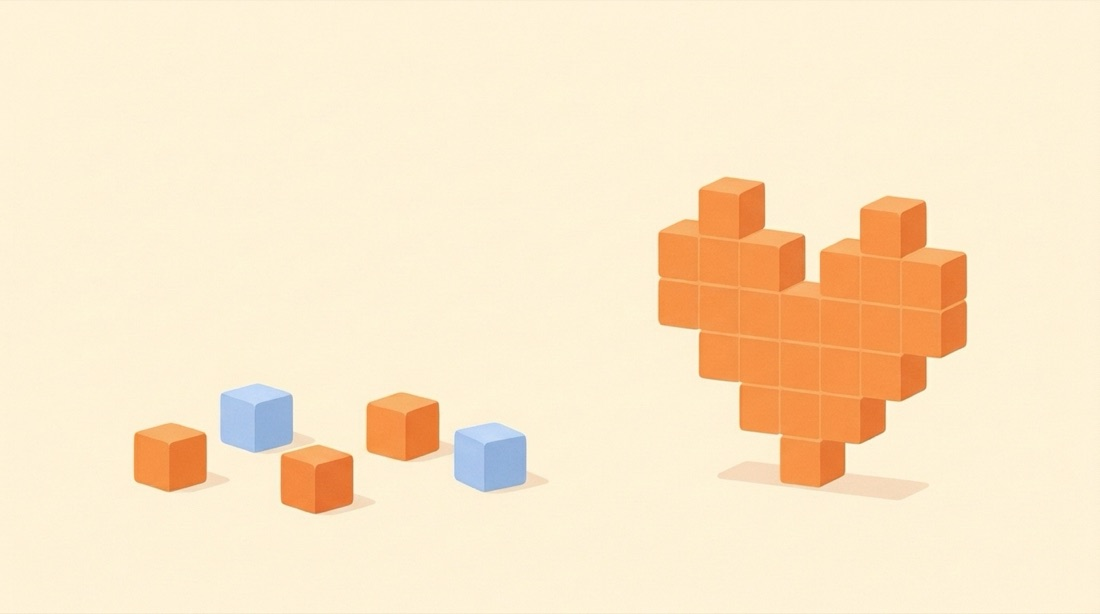
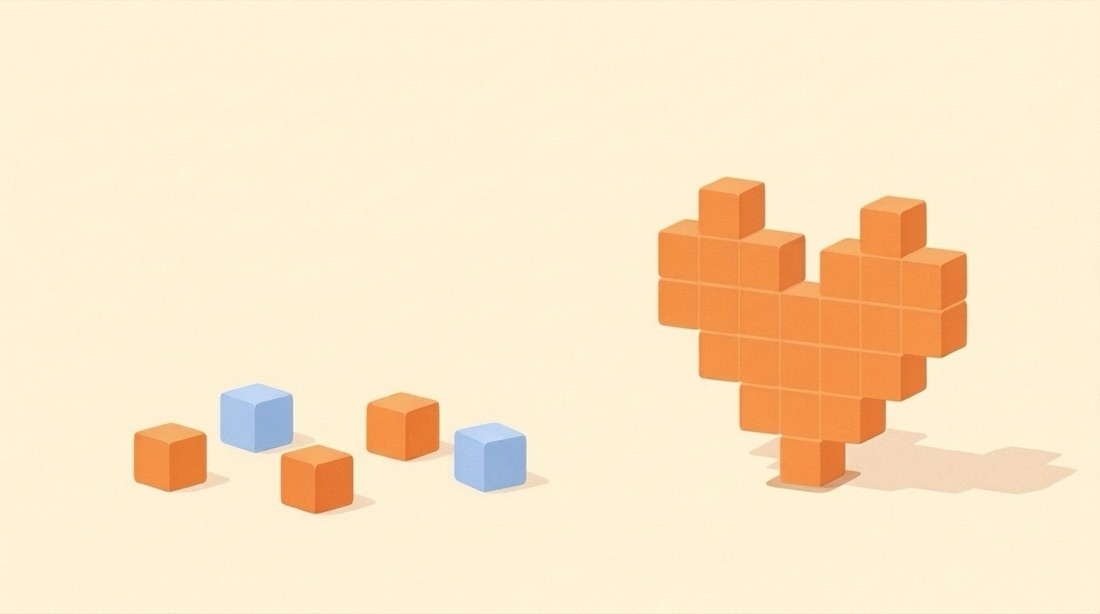
「しくみ」の挿絵の影の向きをそろえる
ハートの影を、ばらばらのブロックの影と同じく接地点から右へ伸びる形にした (Gemini で影だけを編集)。

Changed region(s): [[0.6491, 0.6808, 0.9891, 0.8046]]

diff --git a/docs/dev/sessions/2026-11-13-heart-shadow.md b/docs/dev/sessions/2026-11-13-heart-shadow.md
@@ -1,0 +1,27 @@
+# 「しくみ」の挿絵の影を直す
+
+日付: 2026-11-13
+
+## 目的
+ユーザーが「しくみ（ざっくり）の絵の影の付け方が気になる」と言った。どの絵かを聞き、ハートの挿絵 (Gemini 製) だと答えた。
+
+## やったこと
+- 元絵の問題: ばらばらのブロックの影は右下に伸びているのに、ハートの影だけ真下の横長の楕円で、光の向きが合っていなかった。
+- `ai-collab-workflow/` の挿絵フローの「直す」手順で、Gemini (`gemini-3.8-flash-medium`) に影だけを直させた。依頼文は `ai-collab-workflow/runs/2026-11-10-voxel-maker-explainer/prompt-07-shadow-edit.md`。
+- 結果を `docs/public/images/parts.jpg` に置き換え (幅 1100px に縮小)、`guide.html` を作り直した。
+- 作業ブランチ `work/heart-shadow`。
+
+## 確認したこと / していないこと
+| 項目 | 状態 |
+| --- | --- |
+| 影以外が変わっていないこと | 確認済み (元絵との画素の差。変わったのは右下の影の範囲 (940,537)-(1342,622) だけ。ブロックとハート本体は 0%) |
+| 影の向き | Claude が画像を開いて確認。ハートの影は接地点から右へ伸びる。ブロックの影 (右下) よりやや水平寄り |
+| 説明ページでの見え方 | 確認済み (ローカル) |
+| Artifact の説明ページ | 取り込み後に更新する |
+
+## 試してうまくいかなかったこと
+- サブエージェントは今回も 2 枚作った (指示では 1 枚)。1 枚目は影が 2 つ出ていて (左下と右) 不採用。返答のパスは 2 枚目を指していた。
+- 枚数を守らせる書き方はまだない。返答の 1 枚だけでなく、同じフォルダの全部の絵を開いて確かめる。
+
+## 残っている課題・次にやること
+- なし

diff --git a/docs/dev/CHANGELOG.md b/docs/dev/CHANGELOG.md
@@ -1,5 +1,8 @@
 # CHANGELOG
 
+## 2026-11-13
+- 説明ページの「しくみ」の挿絵 (`docs/public/images/parts.jpg`) の影を直した (ハートの影の向きをブロックの影とそろえた)
+
 ## 2026-11-11
 - 見本のドット絵を差し替えた (ゲームのきのこに似ていた図柄 → 説明ページの表紙をもとにしたオレンジのきのこ)
 - 書体の選択肢に「へたうま（太い）」(Darumadrop One) と「へたうま（ペン書き）」(Slackside One) を追加。説明ページの書体の数を 5 → 7 に修正
